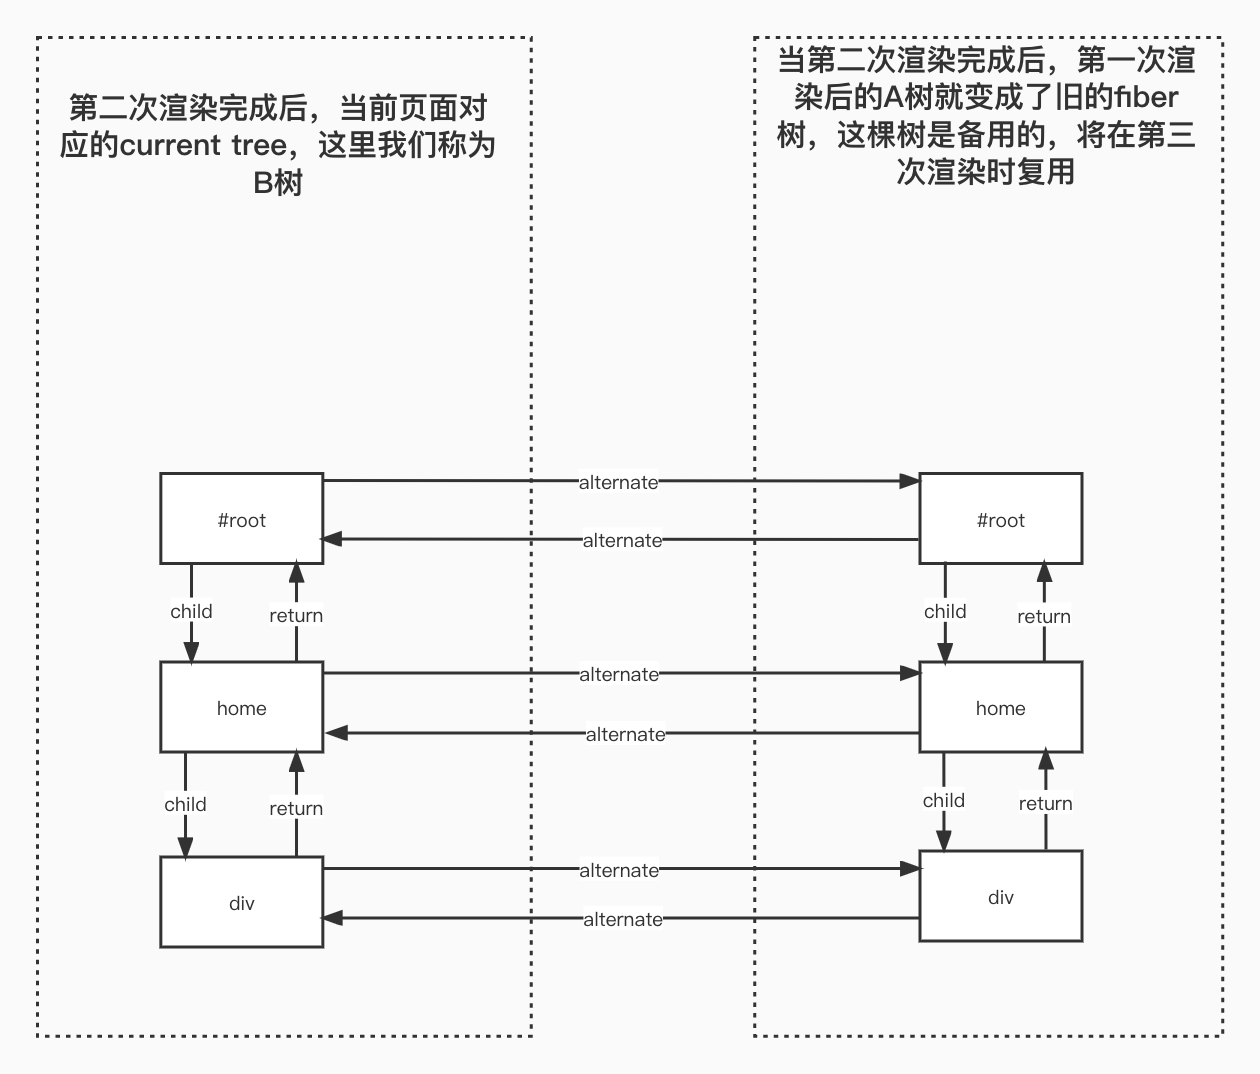
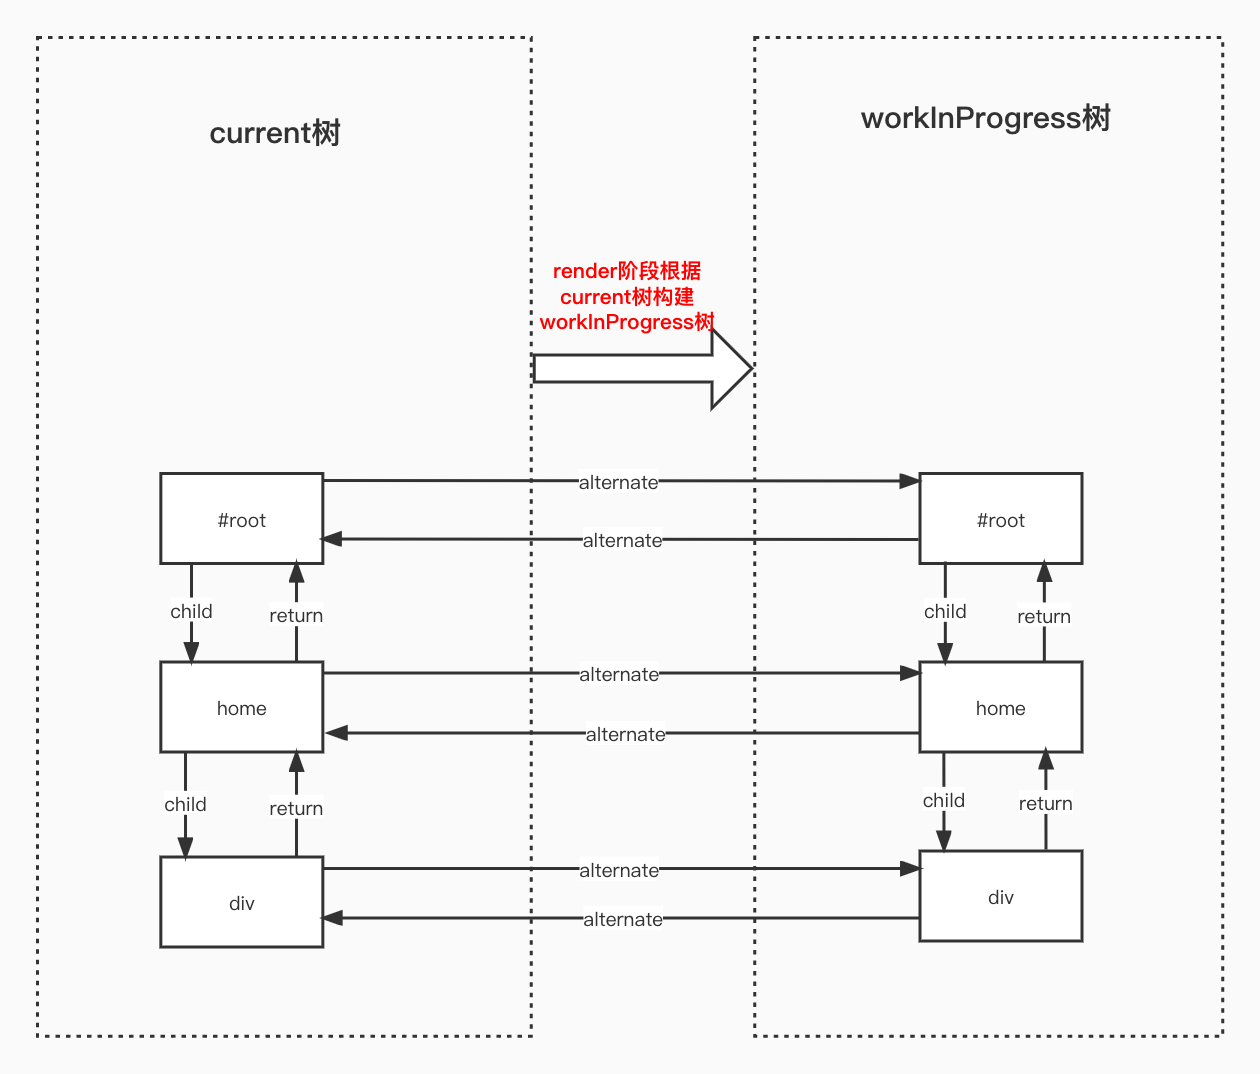
feat: stash

Changed region(s): [[0.619, 0.0307, 0.9595, 0.1844], [0.031, 0.0615, 0.4024, 0.1844], [0.4333, 0.2458, 0.5881, 0.3687]]

diff --git a/docs/fiber/fiber双缓冲树.md b/docs/fiber/fiber双缓冲树.md
@@ -38,7 +38,7 @@ function workLoopSync() {
 }
 ```
 
-![image](https://github.com/lizuncong/mini-react/blob/master/imgs/double-fiber-06.jpg)
+![image](https://github.com/lizuncong/mini-react/blob/master/imgs/double-fiber-01.jpg)
 
 #### render 阶段完成，commit 阶段开始前
 
@@ -59,7 +59,9 @@ function performSyncWorkOnRoot(root) {
 ```
 
 可以在 `performSyncWorkOnRoot` 处打断点查看这个过程
-![image](https://github.com/lizuncong/mini-react/blob/master/imgs/double-fiber-07.jpg)
+![image](https://github.com/lizuncong/mini-react/blob/master/imgs/double-fiber-02.jpg)
+
+![image](https://github.com/lizuncong/mini-react/blob/master/imgs/double-fiber-03.jpg)
 
 #### commit 阶段
 
@@ -108,30 +110,88 @@ function commitRootImpl(root, renderPriorityLevel) {
 }
 ```
 
-![image](https://github.com/lizuncong/mini-react/blob/master/imgs/double-fiber-05.jpg)
-
-**如果你看完上面介绍的几个阶段中 Fiber 双缓冲树的状态，还是很蒙的话，那一定是我写的太烂了。下面我会用几个 demo 详细介绍双缓冲树的创建过程。在此之前，你只需要记住 render 阶段和 commit 阶段双缓冲树的区别就行了**
-
-### 创建备用节点的方法
-
-如果没有备用节点，则新建一个，否则复用。备用节点会复制当前节点的 child 以及 sibling 等属性
-
-在复用当前节点时，不会复用当前节点与副作用及副作用链表相关属性，比如：flags、firstEffect、nextEffect、lastEffect。
-当前节点的其余节点都会被拷贝到备用节点中去
-
-第一次渲染完成后，此时内存中只有一棵 fiber 树，即 current tree。
-![image](https://github.com/lizuncong/mini-react/blob/master/imgs/double-fiber-01.jpg)
-
-当我们调用 this.setState 触发状态更新，render 阶段完成后，commit 阶段开始前，此时 workInProgress 树构建完成，内存中除了 current tree 以外，还有一棵 workInProgress tree，即 finishedWork tree。
-![image](https://github.com/lizuncong/mini-react/blob/master/imgs/double-fiber-02.jpg)
-
-![image](https://github.com/lizuncong/mini-react/blob/master/imgs/double-fiber-03.jpg)
-
 ![image](https://github.com/lizuncong/mini-react/blob/master/imgs/double-fiber-04.jpg)
 
-```js
-// This is used to create an alternate fiber to do work on.
+**如果你看完上面介绍的几个阶段中 Fiber 双缓冲树的状态，还是很蒙的话，那一定是我写的太烂了。下面我会用几个 demo 详细介绍双缓冲树的创建过程。在此之前，你只需要记住 render 阶段和 commit 阶段双缓冲树的状态就行了**
 
+### 构建 workInProgress 树主要的源码
+
+以下面的 Demo 为例：
+
+```jsx
+import React from "react";
+import ReactDOM from "react-dom";
+class Home extends React.Component {
+  constructor(props) {
+    super(props);
+    this.state = { step: 0 };
+    this.handleClick = this.handleClick.bind(this);
+  }
+  handleClick() {
+    this.setState({
+      step: this.state.step + 1,
+    });
+  }
+  render() {
+    const { step } = this.state;
+    return (
+      <div id={step} onClick={this.handleClick}>
+        {step}
+      </div>
+    );
+  }
+}
+ReactDOM.render(<Home />, document.getElementById("root"));
+```
+
+这个 Demo 用来演示在 render 阶段如何基于当前的 current 树构建 fiber 节点以及复用节点。
+
+构建 workInProgress 的主要源码如下，我们可以在下面各个函数入口处打个断点调试，可以更好的感受这个过程
+
+```js
+// render阶段
+function workLoopSync() {
+  while (workInProgress !== null) {
+    performUnitOfWork(workInProgress);
+  }
+}
+
+function performUnitOfWork(unitOfWork) {
+  // The current, flushed, state of this fiber is the alternate. Ideally
+  // nothing should rely on this, but relying on it here means that we don't
+  // need an additional field on the work in progress.
+  var current = unitOfWork.alternate;
+
+  next = beginWork$1(current, unitOfWork, subtreeRenderLanes);
+
+  unitOfWork.memoizedProps = unitOfWork.pendingProps;
+
+  if (next === null) {
+    // If this doesn't spawn new work, complete the current work.
+    completeUnitOfWork(unitOfWork);
+  } else {
+    workInProgress = next;
+  }
+}
+
+function reconcileChildren(current, workInProgress, nextChildren, renderLanes) {
+  if (current === null) {
+    workInProgress.child = mountChildFibers(
+      workInProgress,
+      null,
+      nextChildren,
+      renderLanes
+    );
+  } else {
+    workInProgress.child = reconcileChildFibers(
+      workInProgress,
+      current.child,
+      nextChildren,
+      renderLanes
+    );
+  }
+}
+// This is used to create an alternate fiber to do work on.
 function createWorkInProgress(current, pendingProps) {
   var workInProgress = current.alternate;
 
